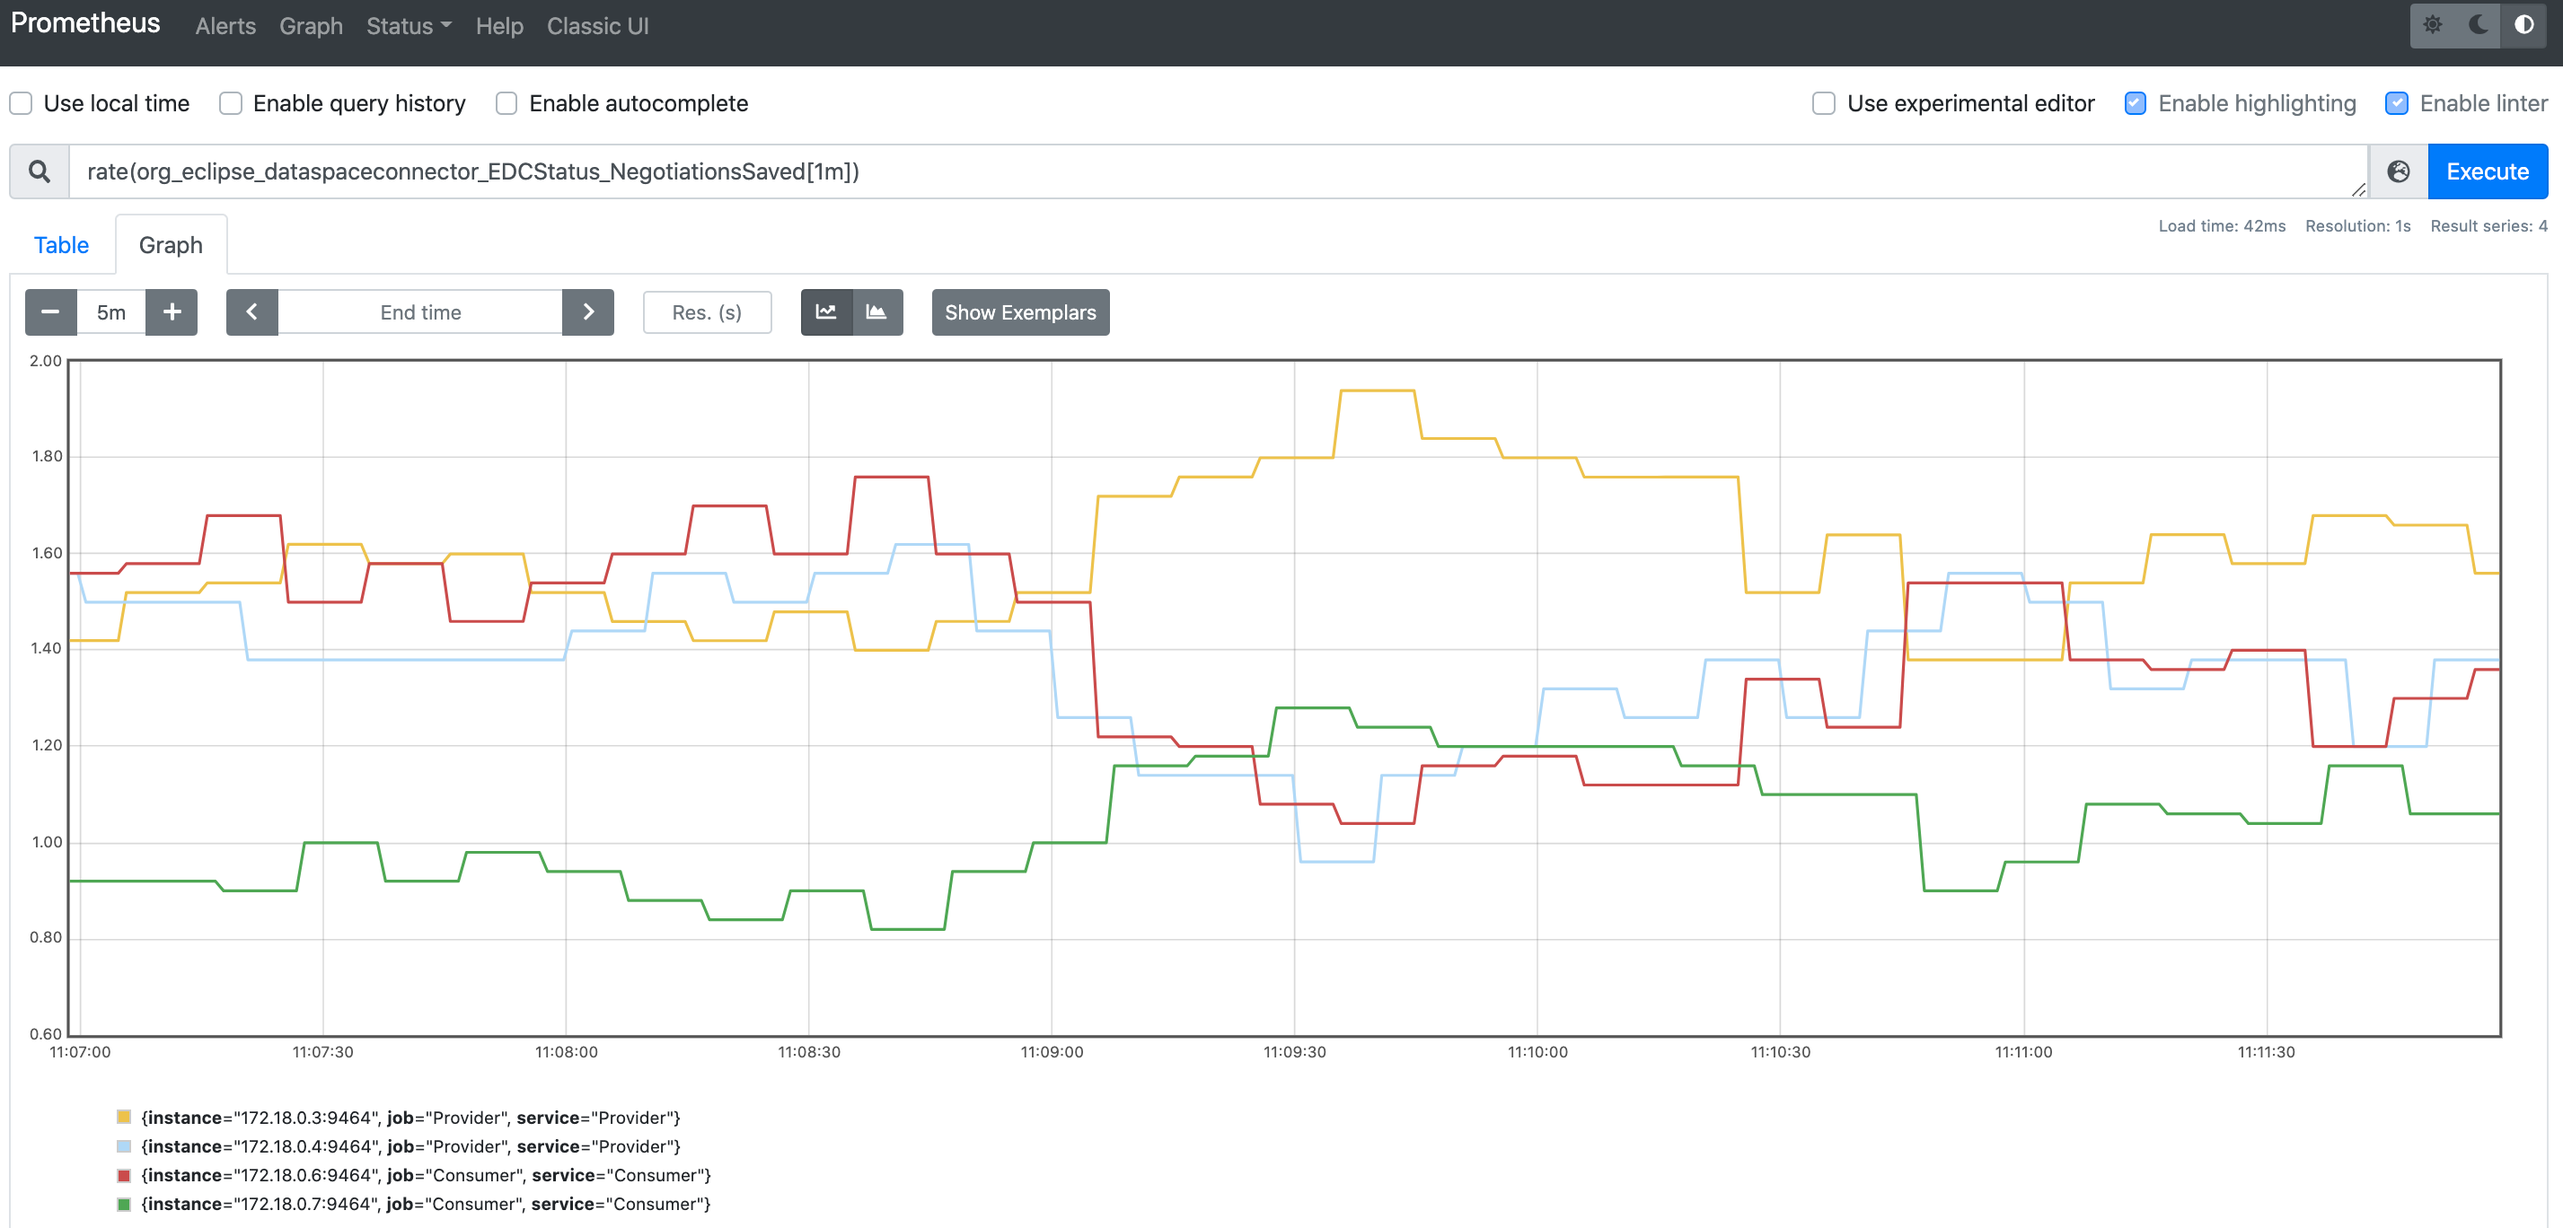
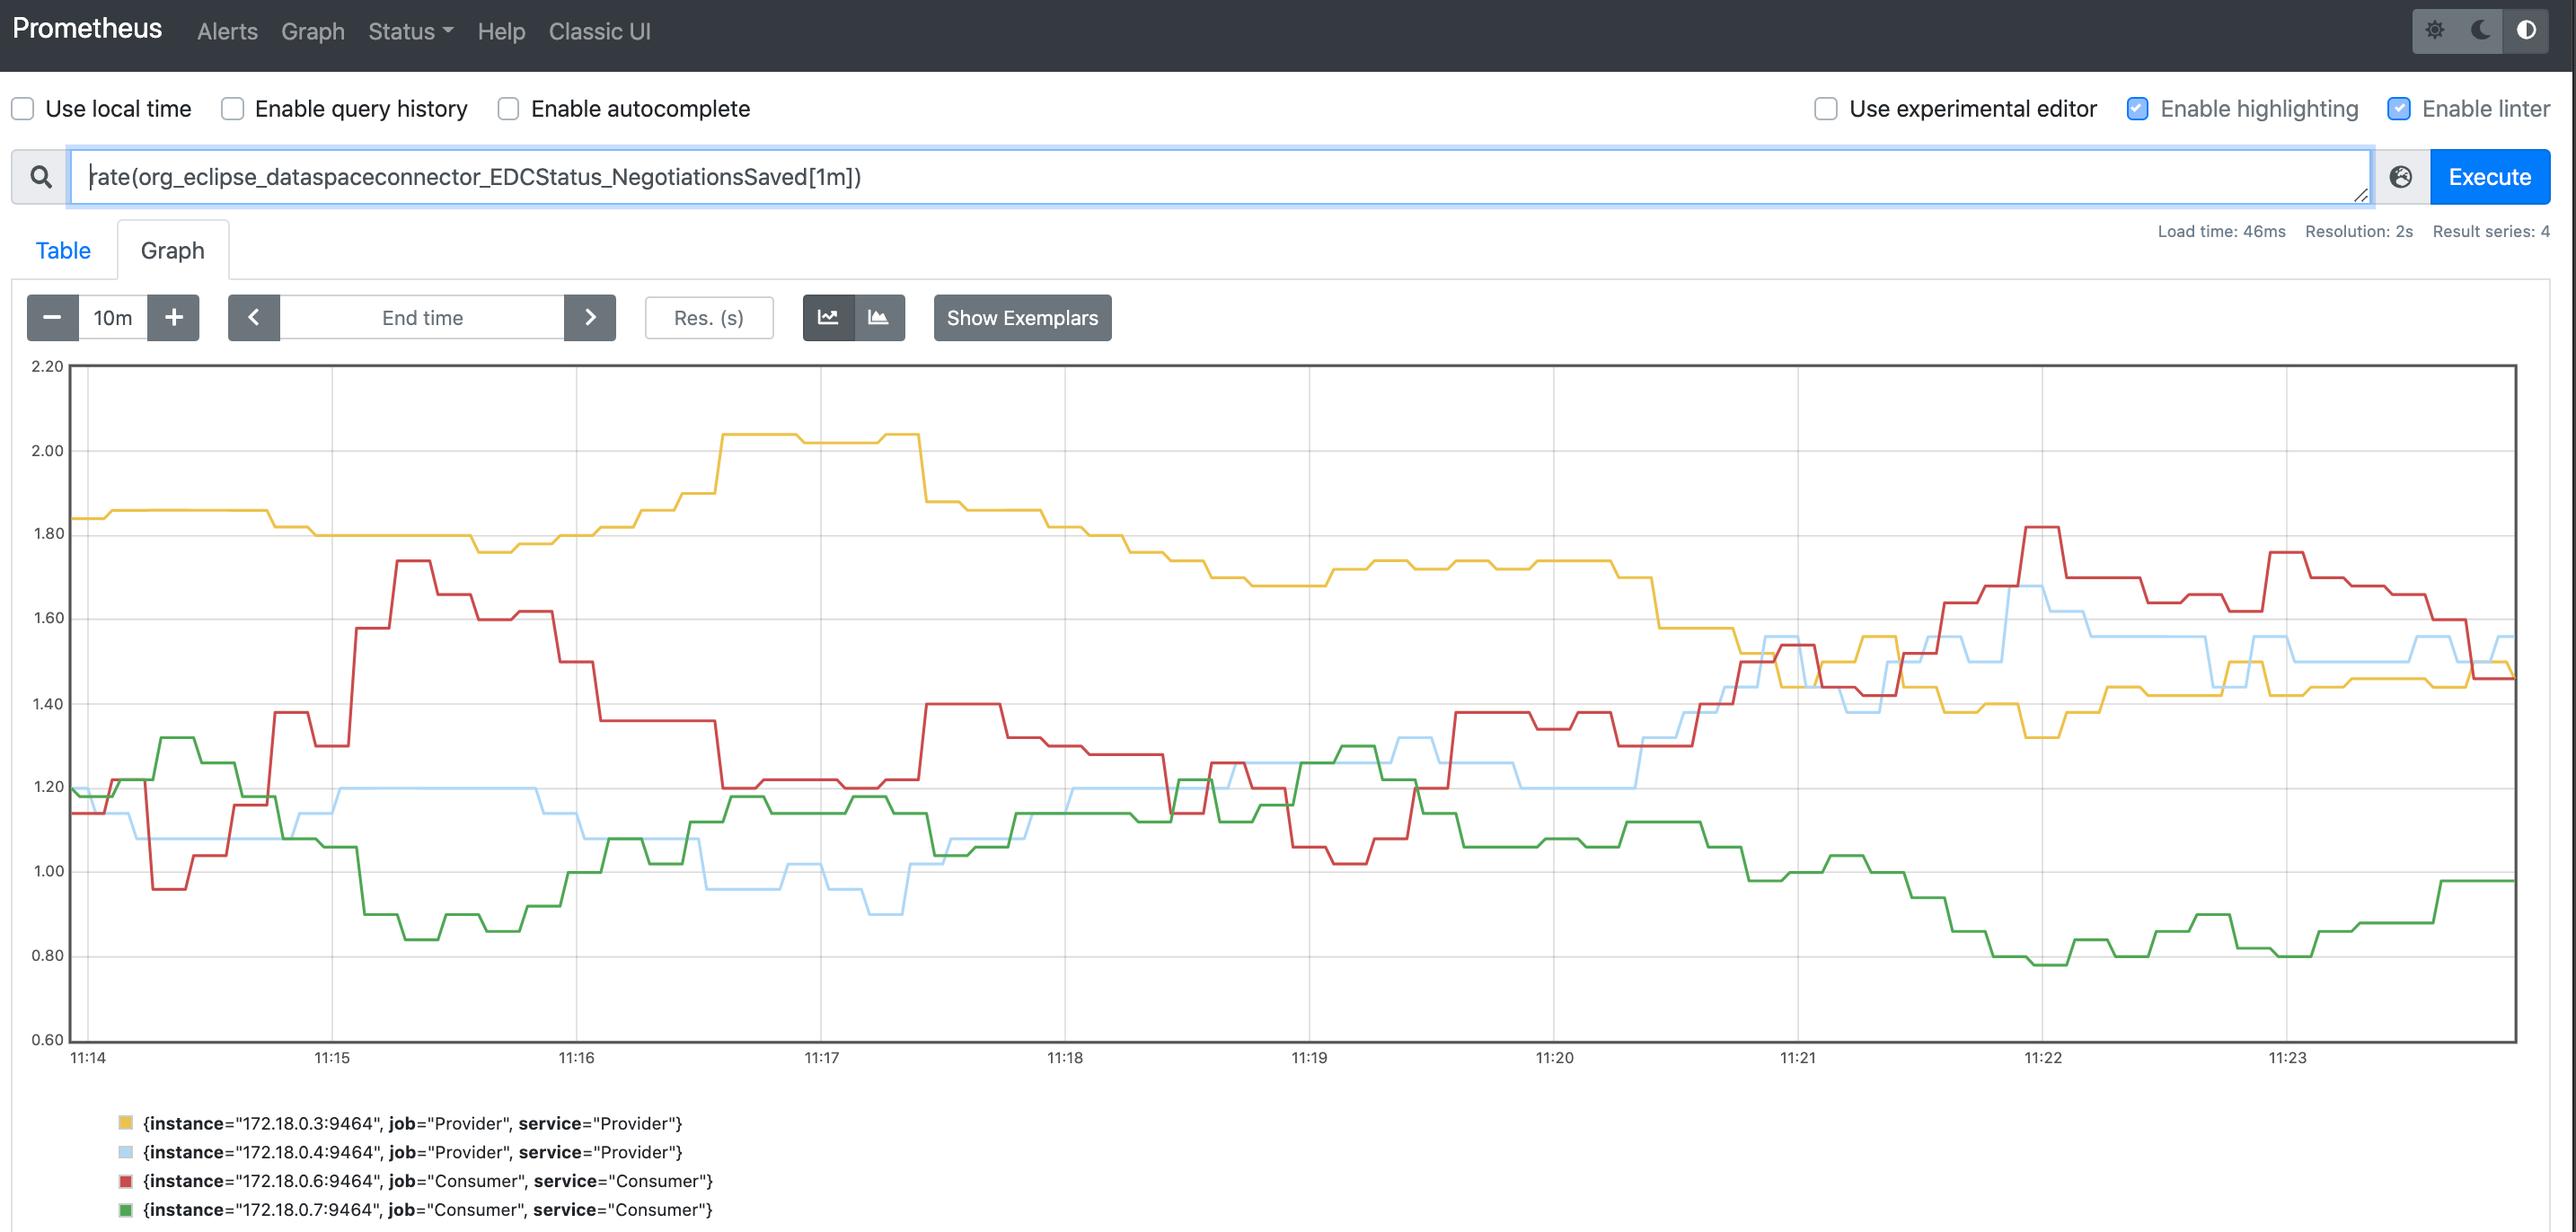
Improved doc

diff --git a/METRICS.md b/METRICS.md
@@ -29,7 +29,7 @@ docker-compose --profile prometheus up
 
 The docker-compose file spins multiple containers to demonstrate multiple metrics:
 - With `--profile azure`: Azure Monitor [Application Insights](https://docs.microsoft.com/azure/azure-monitor/app/app-insights-overview) cloud-native Application Performance Management (APM) service
-- With `--profile prometheus`:  [Prometheus](https://prometheus.io/) open-source monitoring system (at [http://localhost:9090](http://localhost:9090))
+- With `--profile prometheus`: [Prometheus](https://prometheus.io/) open-source monitoring system (at [http://localhost:9090](http://localhost:9090))
 
 It also starts containers to fire cURL requests repeatedly to initiate a contract negotiation process on the consumer connector. This causes EDC to send an HTTP request from the consumer to the provider connector, followed by another message from the provider to the consumer connector. See [the sample README file](samples/04-file-transfer//README.md) for more information about the negotiation process.
 
@@ -41,21 +41,25 @@ Monitor the metrics in [metrics explorer](https://docs.microsoft.com/en-us/azure
 
 ![App Insights metric](.attachments/app_insights.png)
 
+The test script sends a little under one request per second to one of two Consumer Connector instances. Each request results in three save operations on the Consumer side, and three on the Provider side. This results in a little under 360 operations per minute. Note the bin granularity is indicated on the top right (here *"Automatic - 1 minute"*).
+
 Having an absolute count of operations as a metric is rarely useful, as the representation is a function of both the rapidity with which the counter is incremented and the longevity of the service. Additionally, the counter drops back to zero on a service restart.
 
-Most metric libraries like [Micrometer](https://micrometer.io/docs/concepts#rate-aggregation) perform a rate aggregation automatically before publishing to App Insights. A similar behaviour should be implemented in a JMX based solution.
+The App Insights agent configures the  [Micrometer](https://micrometer.io/docs/concepts#rate-aggregation) metrics library to perform a rate aggregation automatically before publishing metrics. A similar behaviour should be implemented in a JMX-based solution.
 
 #### Prometheus
 
 Go to [http://localhost:9090](http://localhost:9090) and browse metrics.
 
-Example: [query number of save operations per second as measured over the last minute](http://localhost:9090/graph?g0.expr=rate(org_eclipse_dataspaceconnector_EDCStatus_NegotiationsSaved%5B1m%5D)&g0.tab=0&g0.stacked=0&g0.show_exemplars=0&g0.range_input=5m).
+Example: [query number of save operations per second as measured over the last minute](http://localhost:9090/graph?g0.expr=rate(org_eclipse_dataspaceconnector_EDCStatus_NegotiationsSaved%5B1m%5D)&g0.tab=0&g0.stacked=0&g0.show_exemplars=0&g0.range_input=10m).
 
 ![Prometheus metric](.attachments/prometheus.png)
 
 Similar query, [aggregating by service](http://localhost:9090/graph?g0.expr=sum%20by%28service%29%20%28rate%28org_eclipse_dataspaceconnector_EDCStatus_NegotiationsSaved%5B5m%5D%29%29&g0.tab=0&g0.stacked=0&g0.show_exemplars=0&g0.range_input=5m).
 
 ![Prometheus metric](.attachments/prometheus-sum.png)
+
+We expect a little under 3 operations per second for each service. Note the bin granularity of the Prometheus [`rate` operator](https://prometheus.io/docs/prometheus/latest/querying/functions/#rate) is always 1 second.
 
 ### About the code
 
@@ -88,6 +92,13 @@ Application Insights is configured to collect the custom JMX metric in `applicat
   ]
 }
 ```
+
+JMX Metrics are exported to a prometheus endpoint by the [JMX exporter agent](https://github.com/prometheus/jmx_exporter). 
+
+```bash
+java -javaagent:/app/jmx_prometheus_javaagent-0.16.1.jar=9464:/app/jmx_prometheus_config.yaml
+```
+
 We set up Docker Compose to deploy multiple replicas per service.
 
 ```
@@ -112,16 +123,15 @@ Address: 172.19.0.4
 We can access the Consumer Connector metrics endpoint for each replica:
 
 ```sh
-> docker exec -it prometheus wget -qO - 172.19.0.6:8181/api/metrics                                                                                                            # HELP negotiationsSaved_total  
-# TYPE negotiationsSaved_total counter
-negotiationsSaved_total 904.0
+> docker exec -it prometheus wget -qO - 172.19.0.6:9464/metrics
+# TYPE java_lang_G1_Old_Gen_CollectionUsageThresholdCount untyped
+java_lang_G1_Old_Gen_CollectionUsageThresholdCount{type="MemoryPool",} 0.0
+# HELP org_eclipse_dataspaceconnector_EDCStatus_NegotiationsSaved Attribute exposed for management (org.eclipse.dataspaceconnector<name=EDCStatus><>NegotiationsSaved)
+# TYPE org_eclipse_dataspaceconnector_EDCStatus_NegotiationsSaved untyped
+org_eclipse_dataspaceconnector_EDCStatus_NegotiationsSaved 3.0
 ```
 
-JMX Metrics are exported to a prometheus endpoint by the [JMX exporter agent](https://github.com/prometheus/jmx_exporter). 
-
-```bash
-java -javaagent:/app/jmx_prometheus_javaagent-0.16.1.jar=9464:/app/jmx_prometheus_config.yaml
-```
+The metrics contain system metrics as well as our custom metrics.
 
 In [the Prometheus server configuration file](prometheus/prometheus.yml), we configure the server to scrape the consumer metrics endpoints for the two available replicas.
 
@@ -129,10 +139,10 @@ In [the Prometheus server configuration file](prometheus/prometheus.yml), we con
 scrape_configs:
   - job_name: Consumer
     dns_sd_configs:
-      - names:
-          - 'consumerP'
-        type: 'A'
-        port: 9464
+    - names:
+      - 'consumerP'
+      type: 'A'
+      port: 9464
       ...
 ```
 
